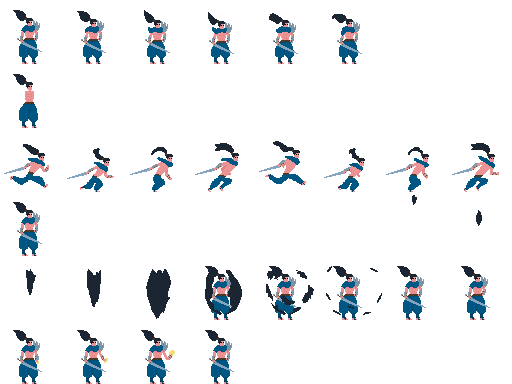
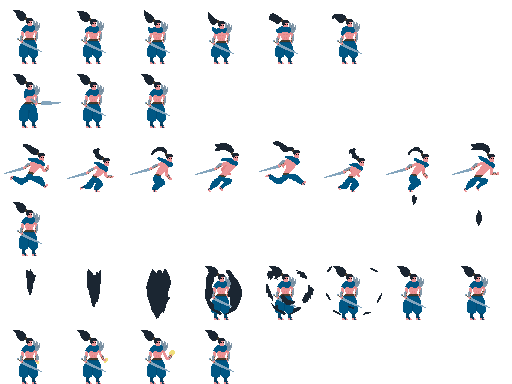
add attack animation + bigger endlevel trigger

Changed region(s): [[0.2812, 0.1875, 0.3438, 0.3438], [0.1562, 0.1875, 0.2188, 0.3438], [0.0312, 0.2188, 0.125, 0.2812]]

diff --git a/level5.js b/level5.js
@@ -4,8 +4,8 @@ var stringLevel5 =
 "0 0 0 0 0 0 0 0 0 0 0 0 0 0 p 0 0 0 0 0 0 0 0 0 0 0 0 0 0 0 0 0 0 0 0 0 0 0 0 0 0 0 0 0 0 0 0 0 0 0 0 0 0 0 0 0 0 0 0 0 0 0 0 0 0 0 0 0 0 0 0 0 0 0 0 \n" +
 "0 0 0 0 0 0 0 0 0 0 0 0 0 1 1 1 0 0 2 0 2 0 2 0 0 0 2 0 0 0 0 0 0 0 0 0 0 0 0 0 0 0 0 0 0 0 0 0 0 0 0 0 0 0 0 0 0 0 0 0 0 0 0 0 0 0 0 0 0 0 0 0 0 0 0 \n" +
 "0 x 0 0 0 0 0 0 0 0 0 0 0 1 1 1 0 0 0 0 0 0 0 0 0 0 0 0 0 0 0 0 0 0 0 0 0 0 0 0 0 0 0 0 0 0 0 0 0 0 0 0 0 0 0 0 0 0 0 0 0 0 0 0 0 0 0 0 0 0 0 0 0 0 0 \n" +
-"0 0 0 0 0 0 0 0 0 0 0 0 0 1 1 1 0 0 0 0 0 0 0 0 0 0 0 0 0 0 0 0 0 0 0 0 0 2 2 0 0 0 0 0 0 0 0 0 0 0 0 0 0 0 0 0 0 0 0 0 0 0 0 0 0 0 0 0 0 0 0 0 0 0 0 \n" +
-"0 0 0 0 0 0 0 0 0 0 0 0 0 1 1 1 0 0 0 0 0 0 0 0 0 0 0 0 0 0 0 0 0 0 0 0 0 0 0 0 0 0 0 0 0 0 0 0 0 0 0 0 0 0 0 0 0 0 0 0 0 0 0 0 0 0 0 0 0 0 0 0 0 0 0 \n" +
+"0 0 0 0 0 0 0 0 0 0 0 0 0 1 1 1 0 0 0 0 0 0 0 0 0 0 0 0 0 0 0 0 0 0 0 0 0 2 2 0 0 0 0 0 0 0 0 0 0 0 0 0 0 0 0 0 0 0 0 0 0 0 0 0 0 0 0 0 0 0 0 e e 0 0 \n" +
+"0 0 0 0 0 0 0 0 0 0 0 0 0 1 1 1 0 0 0 0 0 0 0 0 0 0 0 0 0 0 0 0 0 0 0 0 0 0 0 0 0 0 0 0 0 0 0 0 0 0 0 0 0 0 0 0 0 0 0 0 0 0 0 0 0 0 0 0 0 0 0 e e 0 0 \n" +
 "0 0 0 0 0 0 0 0 0 0 0 0 0 1 1 1 0 0 0 0 0 0 0 0 0 0 0 0 0 0 0 0 0 0 2 0 0 0 0 0 0 0 0 0 0 0 0 0 0 0 0 0 0 0 0 0 0 0 0 0 0 0 0 0 0 0 0 0 0 0 0 e e 0 0 \n" +
 "1 1 1 1 1 1 1 1 1 1 1 1 1 1 1 1 0 0 0 0 0 0 0 0 0 0 0 0 0 0 0 0 0 0 2 0 0 0 0 0 0 0 0 1 0 0 0 0 0 0 0 0 1 0 0 0 0 0 0 0 0 0 0 0 0 0 0 0 0 0 0 e e 0 0 \n" +
 "2 2 2 2 2 2 2 2 2 2 2 2 2 2 2 2 1 1 1 1 1 1 1 1 1 1 1 0 0 0 0 0 0 0 2 0 0 0 0 0 0 0 0 2 1 1 1 1 1 1 1 1 2 0 0 0 0 0 1 1 0 1 0 1 0 1 0 1 0 1 1 1 1 1 1 ";

diff --git a/level3.js b/level3.js
@@ -2,8 +2,8 @@ var stringLevel3 =
 "0 0 0 0 0 0 0 0 0 0 0 0 0 0 0 0 0 0 0 0 0 0 0 0 0 0 0 0 0 0 0 0 0 0 0 0 0 0 0 0 0 0 0 0 0 0 0 0 0 0 0 0 0 0 0 0 0 0 0 0 0 0 0 0 0 0 0 0 0 0 0 0 0 0 \n" +
 "0 0 0 0 0 0 0 0 0 0 0 0 0 0 0 0 0 0 0 0 0 0 0 0 0 0 0 0 0 0 0 0 0 0 0 0 0 0 0 0 0 0 0 0 0 0 0 0 0 0 0 0 0 0 0 0 0 0 0 0 0 0 0 0 0 0 0 0 0 0 0 0 0 0 \n" +
 "0 0 0 0 0 0 0 0 0 0 0 0 0 0 0 0 0 0 0 0 0 0 0 0 0 1 1 1 0 0 0 0 0 0 0 0 0 0 0 0 0 0 0 0 0 0 0 0 0 0 0 0 0 0 0 0 0 0 0 1 0 0 0 0 0 0 0 0 0 0 0 0 0 0 \n" +
-"0 0 0 0 0 0 0 0 0 0 0 0 0 0 0 0 0 0 0 1 1 1 0 0 0 0 0 0 0 0 0 0 0 0 0 0 0 0 0 0 0 0 0 0 0 0 1 1 1 0 0 1 0 0 0 0 0 0 0 2 0 0 0 0 0 0 0 0 0 0 0 0 0 0 \n" +
-"0 0 0 0 0 0 0 0 0 0 0 0 0 0 0 0 0 0 0 0 0 0 0 0 0 0 0 1 0 0 0 0 0 0 0 1 0 1 0 0 0 0 0 0 0 0 0 0 0 0 0 0 0 0 0 0 0 0 1 2 0 0 0 0 0 0 0 0 0 0 0 0 0 0 \n" +
+"0 0 0 0 0 0 0 0 0 0 0 0 0 0 0 0 0 0 0 1 1 1 0 0 0 0 0 0 0 0 0 0 0 0 0 0 0 0 0 0 0 0 0 0 0 0 1 1 1 0 0 1 0 0 0 0 0 0 0 2 0 0 0 0 0 0 0 0 0 0 0 e e 0 \n" +
+"0 0 0 0 0 0 0 0 0 0 0 0 0 0 0 0 0 0 0 0 0 0 0 0 0 0 0 1 0 0 0 0 0 0 0 1 0 1 0 0 0 0 0 0 0 0 0 0 0 0 0 0 0 0 0 0 0 0 1 2 0 0 0 0 0 0 0 0 0 0 0 e e 0 \n" +
 "0 x 0 0 0 0 0 0 0 0 0 0 0 0 0 1 1 1 0 0 0 0 0 0 0 1 0 2 0 0 0 0 0 0 0 2 0 2 0 0 0 0 0 0 0 0 0 0 0 0 0 0 0 0 0 0 0 0 2 2 0 0 0 0 0 0 0 0 0 0 0 e e 0 \n" +
 "0 0 0 0 0 0 0 0 0 0 0 0 0 0 0 0 0 0 0 0 0 0 0 0 0 2 0 2 0 0 0 0 0 0 0 2 0 2 0 0 0 0 0 0 0 0 0 0 0 0 0 0 0 0 0 0 0 1 2 2 0 0 0 0 0 0 0 0 0 0 0 e e 0 \n" +
 "0 0 0 0 0 0 0 0 0 0 0 0 0 0 0 0 0 0 0 0 0 0 0 0 0 2 0 2 0 0 0 0 0 0 0 2 0 2 0 0 0 0 0 0 0 0 0 0 0 0 0 0 0 0 0 0 0 2 2 2 0 0 0 0 0 0 0 0 0 0 0 0 0 0 \n" + 

diff --git a/level2.js b/level2.js
@@ -1,7 +1,7 @@
 var stringLevel2 =
 "0 0 0 0 0 0 0 0 0 0 0 0 0 0 0 0 0 0 0 0 0 0 0 0 0 0 0 0 0 0 0 0 0 0 0 0 0 0 0 0 0 0 0 0 0 0 0 0 0 0 0 0 0 0 0 0 0 0 0 0 0 0 0 0 0 0 0 0 0 0 0 0 0 0 \n" +
-"0 0 0 0 0 0 0 0 0 0 0 0 0 0 0 0 0 0 0 0 0 0 0 0 0 0 0 0 0 0 0 0 0 0 0 0 0 0 0 0 0 0 0 0 0 0 0 0 0 0 0 0 0 0 0 0 0 0 0 0 0 0 0 0 0 0 0 0 0 0 0 0 0 0 \n" +
-"0 0 0 0 0 0 0 0 0 0 0 0 0 0 0 0 0 0 0 0 0 0 0 0 0 0 0 0 0 0 0 0 0 0 0 0 0 0 0 0 0 0 0 0 0 0 0 0 0 0 0 0 0 0 0 0 0 0 0 0 0 0 0 0 0 0 0 0 0 0 0 0 0 0 \n" +
+"0 0 0 0 0 0 0 0 0 0 0 0 0 0 0 0 0 0 0 0 0 0 0 0 0 0 0 0 0 0 0 0 0 0 0 0 0 0 0 0 0 0 0 0 0 0 0 0 0 0 0 0 0 0 0 0 0 0 0 0 0 0 0 0 0 0 0 0 0 0 e e 0 0 \n" +
+"0 0 0 0 0 0 0 0 0 0 0 0 0 0 0 0 0 0 0 0 0 0 0 0 0 0 0 0 0 0 0 0 0 0 0 0 0 0 0 0 0 0 0 0 0 0 0 0 0 0 0 0 0 0 0 0 0 0 0 0 0 0 0 0 0 0 0 0 0 0 e e 0 0 \n" +
 "0 x 0 0 0 0 0 0 0 0 0 0 0 0 0 0 0 0 0 0 0 0 0 0 0 0 0 0 0 0 0 0 0 0 0 0 0 0 0 0 0 0 0 0 0 0 0 0 0 0 0 0 0 0 0 0 0 0 0 0 0 0 0 0 0 0 0 0 0 0 e e 0 0 \n" +
 "0 0 0 0 0 0 0 1 0 0 0 0 0 0 0 0 0 0 0 0 0 0 0 0 0 0 0 0 0 0 0 0 0 0 0 0 0 0 0 0 0 0 0 0 0 0 0 0 0 0 0 0 0 0 0 0 0 0 0 0 0 0 0 0 0 0 0 0 0 0 e e 0 0 \n" +
 "0 0 0 0 0 0 1 2 0 0 p 0 0 0 0 0 0 0 0 0 p 0 0 0 0 0 0 0 0 p 0 0 0 0 0 0 0 0 0 0 0 0 0 0 0 0 0 0 p 0 0 0 0 0 0 0 0 0 0 0 p 0 0 0 0 0 0 0 0 0 e e 0 0 \n" + 

diff --git a/level1.js b/level1.js
@@ -1,7 +1,7 @@
 var stringLevel1 = 
 "0 x 0 0 0 0 0 0 0 0 0 0 0 0 0 0 0 0 0 0 0 0 0 0 0 0 0 0 0 0 0 0 0 0 0 0 0 1 1 1 0 0 0 0 0 0 0 0 0 0 0 0 0 0 0 0 0 0 0 0 0 0 0 0 0 0 0 0 0 0 0 0 0 0 \n" +
-"0 0 0 0 0 0 0 0 0 0 1 1 1 1 0 0 0 0 0 0 0 0 0 0 0 0 0 0 0 0 0 0 0 0 0 0 0 0 0 0 0 0 0 0 0 0 0 0 0 0 0 0 0 0 0 0 0 0 0 0 0 0 0 0 0 0 0 0 0 0 0 0 0 0 \n" +
-"0 0 0 0 0 0 0 0 0 0 0 0 0 0 0 0 0 0 0 0 0 0 0 0 0 0 0 0 0 0 0 0 0 0 0 0 0 0 0 0 0 0 0 0 0 0 0 0 0 0 0 0 0 0 0 0 0 0 0 0 0 0 0 0 0 0 0 0 0 0 0 0 0 0 \n" +
+"0 0 0 0 0 0 0 0 0 0 1 1 1 1 0 0 0 0 0 0 0 0 0 0 0 0 0 0 0 0 0 0 0 0 0 0 0 0 0 0 0 0 0 0 0 0 0 0 0 0 0 0 0 0 0 0 0 0 0 0 0 0 0 0 0 0 0 0 0 0 e e 0 0 \n" +
+"0 0 0 0 0 0 0 0 0 0 0 0 0 0 0 0 0 0 0 0 0 0 0 0 0 0 0 0 0 0 0 0 0 0 0 0 0 0 0 0 0 0 0 0 0 0 0 0 0 0 0 0 0 0 0 0 0 0 0 0 0 0 0 0 0 0 0 0 0 0 e e 0 0 \n" +
 "0 0 0 0 0 0 0 0 0 0 0 0 0 0 0 0 0 0 0 0 0 0 0 0 0 0 0 0 0 0 0 0 0 0 1 0 0 0 0 0 0 0 0 0 0 0 0 0 0 0 0 0 0 0 0 0 0 0 0 0 0 0 0 0 0 0 0 0 0 0 e e 0 0 \n" +
 "0 0 0 0 0 p 0 0 0 p 0 0 p 0 0 0 0 0 0 0 0 0 1 0 0 0 0 1 0 0 0 0 0 1 2 0 0 0 0 0 0 0 1 0 0 0 0 0 0 0 0 0 0 0 0 0 0 0 0 0 0 0 0 0 0 0 0 0 0 0 e e 0 0 \n" +
 "1 1 1 1 1 1 1 1 1 1 1 1 1 1 1 1 0 0 0 0 1 1 2 1 1 1 1 2 1 1 1 1 1 2 2 0 0 0 0 0 0 0 2 1 1 1 1 1 1 1 1 1 0 0 1 1 0 0 1 1 0 0 1 1 1 1 1 1 1 1 1 1 1 1 ";

diff --git a/level4.js b/level4.js
@@ -21,7 +21,7 @@ var stringLevel4 =
 "0 0 0 0 0 0 0 0 0 0 0 0 0 0 0 0 0 0 0 0 0 0 0 0 0 0 0 0 0 0 0 0 0 0 0 0 0 0 0 0 0 0 0 0 0 0 0 0 0 0 0 0 0 0 0 0 0 0 0 0 0 0 0 0 0 0 0 0 \n" +
 "0 0 0 0 0 0 0 0 0 0 0 0 0 0 0 0 0 0 0 0 0 0 0 0 0 1 1 1 0 0 0 0 0 0 0 0 0 0 0 0 0 0 0 0 0 0 0 0 0 0 0 0 0 1 0 0 0 0 0 0 0 0 0 0 0 0 0 0 \n" +
 "0 0 0 0 0 0 0 0 0 0 0 0 0 0 0 0 0 0 0 1 1 1 0 0 0 0 0 0 0 0 0 0 0 0 0 0 0 0 0 0 0 0 0 0 0 1 0 0 0 0 0 0 0 2 0 0 0 0 0 0 0 0 0 0 0 0 0 0 \n" +
-"0 0 0 0 0 0 0 0 0 0 0 0 0 0 0 0 0 0 0 0 0 0 0 0 0 0 0 0 0 0 0 0 0 0 0 1 0 1 0 0 0 0 0 0 0 0 0 0 0 0 0 0 1 2 0 0 0 0 0 0 0 0 0 0 0 0 0 0 \n" +
+"0 0 0 0 0 0 0 0 0 0 0 0 0 0 0 0 0 0 0 0 0 0 0 0 0 0 0 0 0 0 0 0 0 0 0 1 0 1 0 0 0 0 0 0 0 0 0 0 0 0 0 0 1 2 0 0 0 0 0 0 0 0 0 0 0 e e 0 \n" +
 "0 x 0 0 0 0 0 0 0 0 0 0 0 0 0 1 1 1 0 0 0 0 0 0 0 0 0 0 0 0 0 0 0 0 0 2 0 2 0 0 0 0 0 0 0 0 0 0 0 0 0 0 2 2 0 0 0 0 0 0 0 0 0 0 0 e e 0 \n" +
 "0 0 0 0 0 0 0 0 0 0 0 0 0 0 0 0 0 0 0 0 0 0 0 0 0 0 0 0 0 0 0 0 0 0 0 2 0 2 0 0 0 0 0 0 0 0 0 0 0 0 0 1 2 2 0 0 0 0 0 0 0 0 0 0 0 e e 0 \n" +
 "0 0 0 0 0 0 0 0 0 0 0 0 0 0 0 0 0 0 0 0 0 0 0 0 0 0 0 0 0 0 0 0 0 0 0 2 0 2 0 0 0 0 0 0 0 0 0 0 0 0 0 2 2 2 0 0 0 0 0 0 0 0 0 0 0 0 0 0 \n" + 

diff --git a/player.js b/player.js
@@ -211,6 +211,13 @@ function attack(scene, poros)
     var raypos1 = new BABYLON.Vector3(player.position.x, player.position.y, player.position.z);
     var rayDir = new BABYLON.Vector3(1, 0, 0);
 
+    playerSprite.playAnimation(8, 9, false, 100, 
+        function(){
+            //animation update
+            playerSprite.playAnimation(1, 5, true, 100);
+            moving = false;
+        });
+
     if(playerSprite.invertU)
         rayDir = new BABYLON.Vector3(-1, 0, 0);
 
